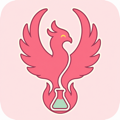
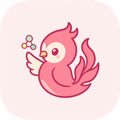
Track homepage visits separately from paper clicks

diff --git a/_includes/head/custom.html b/_includes/head/custom.html
@@ -2,24 +2,24 @@
 
 <!-- start custom head snippets -->
 
-<link rel="apple-touch-icon" sizes="57x57" href="{{ base_path }}/images/apple-touch-icon-57x57.png?v=20260727d">
-<link rel="apple-touch-icon" sizes="60x60" href="{{ base_path }}/images/apple-touch-icon-60x60.png?v=20260727d">
-<link rel="apple-touch-icon" sizes="72x72" href="{{ base_path }}/images/apple-touch-icon-72x72.png?v=20260727d">
-<link rel="apple-touch-icon" sizes="76x76" href="{{ base_path }}/images/apple-touch-icon-76x76.png?v=20260727d">
-<link rel="apple-touch-icon" sizes="114x114" href="{{ base_path }}/images/apple-touch-icon-114x114.png?v=20260727d">
-<link rel="apple-touch-icon" sizes="120x120" href="{{ base_path }}/images/apple-touch-icon-120x120.png?v=20260727d">
-<link rel="apple-touch-icon" sizes="144x144" href="{{ base_path }}/images/apple-touch-icon-144x144.png?v=20260727d">
-<link rel="apple-touch-icon" sizes="152x152" href="{{ base_path }}/images/apple-touch-icon-152x152.png?v=20260727d">
-<link rel="apple-touch-icon" sizes="180x180" href="{{ base_path }}/images/apple-touch-icon-180x180.png?v=20260727d">
-<link rel="icon" type="image/png" href="{{ base_path }}/images/favicon-32x32.png?v=20260727d" sizes="32x32">
-<link rel="icon" type="image/png" href="{{ base_path }}/images/android-chrome-192x192.png?v=20260727d" sizes="192x192">
-<link rel="icon" type="image/png" href="{{ base_path }}/images/favicon-96x96.png?v=20260727d" sizes="96x96">
-<link rel="icon" type="image/png" href="{{ base_path }}/images/favicon-16x16.png?v=20260727d" sizes="16x16">
-<link rel="manifest" href="{{ base_path }}/images/manifest.json?v=20260727d">
-<link rel="shortcut icon" href="/images/favicon.ico?v=20260727d">
+<link rel="apple-touch-icon" sizes="57x57" href="{{ base_path }}/images/apple-touch-icon-57x57.png?v=20260728b">
+<link rel="apple-touch-icon" sizes="60x60" href="{{ base_path }}/images/apple-touch-icon-60x60.png?v=20260728b">
+<link rel="apple-touch-icon" sizes="72x72" href="{{ base_path }}/images/apple-touch-icon-72x72.png?v=20260728b">
+<link rel="apple-touch-icon" sizes="76x76" href="{{ base_path }}/images/apple-touch-icon-76x76.png?v=20260728b">
+<link rel="apple-touch-icon" sizes="114x114" href="{{ base_path }}/images/apple-touch-icon-114x114.png?v=20260728b">
+<link rel="apple-touch-icon" sizes="120x120" href="{{ base_path }}/images/apple-touch-icon-120x120.png?v=20260728b">
+<link rel="apple-touch-icon" sizes="144x144" href="{{ base_path }}/images/apple-touch-icon-144x144.png?v=20260728b">
+<link rel="apple-touch-icon" sizes="152x152" href="{{ base_path }}/images/apple-touch-icon-152x152.png?v=20260728b">
+<link rel="apple-touch-icon" sizes="180x180" href="{{ base_path }}/images/apple-touch-icon-180x180.png?v=20260728b">
+<link rel="icon" type="image/png" href="{{ base_path }}/images/favicon-32x32.png?v=20260728b" sizes="32x32">
+<link rel="icon" type="image/png" href="{{ base_path }}/images/android-chrome-192x192.png?v=20260728b" sizes="192x192">
+<link rel="icon" type="image/png" href="{{ base_path }}/images/favicon-96x96.png?v=20260728b" sizes="96x96">
+<link rel="icon" type="image/png" href="{{ base_path }}/images/favicon-16x16.png?v=20260728b" sizes="16x16">
+<link rel="manifest" href="{{ base_path }}/images/manifest.json?v=20260728b">
+<link rel="shortcut icon" href="/images/favicon.ico?v=20260728b">
 <meta name="msapplication-TileColor" content="#efc4d3">
-<meta name="msapplication-TileImage" content="{{ base_path }}/images/mstile-144x144.png?v=20260727d">
-<meta name="msapplication-config" content="{{ base_path }}/images/browserconfig.xml?v=20260727d">
+<meta name="msapplication-TileImage" content="{{ base_path }}/images/mstile-144x144.png?v=20260728b">
+<meta name="msapplication-config" content="{{ base_path }}/images/browserconfig.xml?v=20260728b">
 <meta name="theme-color" content="#efc4d3">
 <script defer src="{{ '/assets/js/citation-copy.js' | relative_url }}"></script>
 {% if site.paper_analytics.supabase_url and site.paper_analytics.publishable_key %}
@@ -28,8 +28,10 @@
   <meta name="paper-analytics-function" content="{{ site.paper_analytics.function_name | default: 'track-paper-click' | escape }}">
   <script defer src="{{ '/assets/js/paper-clicks.js' | relative_url }}?v=20260727c"></script>
   {% if page.permalink == "/" %}
+    <meta name="page-analytics-function" content="{{ site.paper_analytics.visit_function_name | default: 'track-page-visit' | escape }}">
     <meta name="paper-analytics-summary-function" content="{{ site.paper_analytics.summary_function_name | default: 'paper-click-summary' | escape }}">
-    <script defer src="{{ '/assets/js/paper-insights.js' | relative_url }}?v=20260727e"></script>
+    <script defer src="{{ '/assets/js/page-visits.js' | relative_url }}?v=20260728a"></script>
+    <script defer src="{{ '/assets/js/paper-insights.js' | relative_url }}?v=20260728a"></script>
   {% endif %}
 {% endif %}
 {% if page.permalink == "/contact/" %}

diff --git a/supabase/functions/track-page-visit/index.ts b/supabase/functions/track-page-visit/index.ts
@@ -1,0 +1,119 @@
+import { createClient } from "npm:@supabase/supabase-js@2";
+
+const allowedOrigins = new Set([
+  "https://phenixace.github.io",
+  "http://localhost:4000",
+  "http://127.0.0.1:4000",
+]);
+
+function corsHeaders(origin: string | null) {
+  return {
+    "Access-Control-Allow-Origin": allowedOrigins.has(origin ?? "")
+      ? origin!
+      : "https://phenixace.github.io",
+    "Access-Control-Allow-Headers": "apikey, content-type",
+    "Access-Control-Allow-Methods": "POST, OPTIONS",
+    "Content-Type": "application/json",
+    Vary: "Origin",
+  };
+}
+
+function secretKey() {
+  const modern = Deno.env.get("SUPABASE_SECRET_KEYS");
+  if (modern) {
+    try {
+      return JSON.parse(modern).default as string;
+    } catch {
+      // Fall through to the legacy key.
+    }
+  }
+  return Deno.env.get("SUPABASE_SERVICE_ROLE_KEY") ?? "";
+}
+
+async function sha256(value: string) {
+  const bytes = new TextEncoder().encode(value);
+  const digest = await crypto.subtle.digest("SHA-256", bytes);
+  return Array.from(new Uint8Array(digest))
+    .map((byte) => byte.toString(16).padStart(2, "0"))
+    .join("");
+}
+
+Deno.serve(async (request) => {
+  const origin = request.headers.get("origin");
+  const headers = corsHeaders(origin);
+
+  if (request.method === "OPTIONS") {
+    return new Response("ok", { headers });
+  }
+  if (request.method !== "POST" || !allowedOrigins.has(origin ?? "")) {
+    return new Response(JSON.stringify({ error: "not_allowed" }), {
+      status: 403,
+      headers,
+    });
+  }
+
+  try {
+    const body = await request.json();
+    const sourcePath = String(body.sourcePath ?? "").trim();
+    if (sourcePath !== "/") throw new Error("invalid_payload");
+
+    const forwarded = request.headers.get("x-forwarded-for") ?? "";
+    const ip = forwarded.split(",")[0].trim();
+    const location = {
+      country: null as string | null,
+      region: null as string | null,
+    };
+    const ipinfoToken = Deno.env.get("IPINFO_TOKEN");
+
+    if (ip && ipinfoToken) {
+      const response = await fetch(
+        `https://ipinfo.io/${encodeURIComponent(ip)}/json?token=${encodeURIComponent(ipinfoToken)}`,
+        { signal: AbortSignal.timeout(2500) },
+      );
+      if (response.ok) {
+        const data = await response.json();
+        location.country = String(data.country ?? "").slice(0, 3) || null;
+        location.region = String(data.region ?? "").slice(0, 180) || null;
+      }
+    }
+
+    const salt = Deno.env.get("IP_HASH_SALT");
+    const ipHash = ip && salt ? await sha256(`${salt}:${ip}`) : null;
+    const supabaseUrl = Deno.env.get("SUPABASE_URL") ?? "";
+    const supabase = createClient(supabaseUrl, secretKey(), {
+      auth: { persistSession: false, autoRefreshToken: false },
+    });
+
+    if (ipHash) {
+      const oneHourAgo = new Date(Date.now() - 60 * 60 * 1000).toISOString();
+      const { count, error: countError } = await supabase
+        .from("page_visits")
+        .select("id", { count: "exact", head: true })
+        .eq("ip_hash", ipHash)
+        .gte("created_at", oneHourAgo);
+
+      if (countError) throw countError;
+      if ((count ?? 0) >= 60) {
+        return new Response(JSON.stringify({ ok: true }), {
+          status: 202,
+          headers,
+        });
+      }
+    }
+
+    const { error } = await supabase.from("page_visits").insert({
+      source_path: sourcePath,
+      country_code: location.country,
+      region: location.region,
+      ip_hash: ipHash,
+    });
+
+    if (error) throw error;
+    return new Response(JSON.stringify({ ok: true }), { headers });
+  } catch {
+    return new Response(JSON.stringify({ error: "invalid_request" }), {
+      status: 400,
+      headers,
+    });
+  }
+});

diff --git a/assets/js/paper-insights.js b/assets/js/paper-insights.js
@@ -15,7 +15,7 @@
   var topPapers = root.querySelector("[data-top-papers]");
   var clickOrigins = root.querySelector("[data-click-origins]");
   var readerMap = root.querySelector("[data-reader-map]");
-  var cacheKey = "jiatong-paper-insights-v2";
+  var cacheKey = "jiatong-paper-insights-v3";
   var hasRenderedData = false;
   var requestInFlight = false;
   var lastRequestedAt = 0;
@@ -108,16 +108,16 @@
       shape.classList.toggle("has-clicks", clicks > 0);
       shape.querySelector("em").textContent = String(clicks);
       shape.title =
-        continentNames[id] + " · " + formatCount(clicks, "click", "clicks");
+        continentNames[id] + " · " + formatCount(clicks, "visit", "visits");
     });
 
     readerMap.setAttribute(
       "aria-label",
       totalClicks
-        ? "Reader map showing " +
-            formatCount(totalClicks, "geolocated click", "geolocated clicks") +
+        ? "Homepage visitor map showing " +
+            formatCount(totalClicks, "geolocated visit", "geolocated visits") +
             " across six continents"
-        : "No geolocated clicks yet"
+        : "No geolocated homepage visits yet"
     );
 
     clickOrigins.replaceChildren();
@@ -125,7 +125,7 @@
       var empty = document.createElement("li");
       empty.className = "insight-list__status";
       empty.textContent = locationEnabled
-        ? "Location tracking is ready; new geolocated clicks will light up the map."
+        ? "Location tracking is ready; new homepage visits will light up the map."
         : "Location enrichment is not enabled yet.";
       clickOrigins.appendChild(empty);
       return;
@@ -144,7 +144,7 @@
       badge.className = "location-list__badge";
       badge.textContent = location.countryCode;
       label.textContent = distinctRegion ? region + " · " + country : country;
-      count.textContent = formatCount(location.clicks, "click", "clicks");
+      count.textContent = formatCount(location.clicks, "visit", "visits");
       item.append(badge, label, count);
       clickOrigins.appendChild(item);
     });
@@ -237,6 +237,12 @@
   loadInsights(true);
 
   window.addEventListener("paperanalytics:updated", function () {
+    window.setTimeout(function () {
+      loadInsights(true);
+    }, 300);
+  });
+
+  window.addEventListener("siteanalytics:updated", function () {
     window.setTimeout(function () {
       loadInsights(true);
     }, 300);

diff --git a/supabase/functions/paper-click-summary/index.ts b/supabase/functions/paper-click-summary/index.ts
@@ -77,8 +77,8 @@ Deno.serve(async (request) => {
         .order("click_count", { ascending: false })
         .limit(5),
       supabase
-        .from("paper_click_locations")
-        .select("country_code,region,click_count,hashed_visitor_count")
+        .from("page_visit_locations")
+        .select("country_code,region,visit_count,hashed_visitor_count")
         .not("country_code", "is", null)
         .limit(1000),
     ]);
@@ -108,7 +108,7 @@ Deno.serve(async (request) => {
       const code = String(row.country_code ?? "").trim().toUpperCase();
       if (!/^[A-Z]{2}$/.test(code)) continue;
       const region = String(row.region ?? "").trim().slice(0, 180) || null;
-      const clicks = numberValue(row.click_count);
+      const clicks = numberValue(row.visit_count);
       const visitors = numberValue(row.hashed_visitor_count);
       const locationKey = `${code}:${region ?? ""}`;
       const location = locationTotals.get(locationKey) ?? {
@@ -152,6 +152,7 @@ Deno.serve(async (request) => {
         papers,
         locations,
         continents,
+        originMetric: "homepage_visits",
         locationEnabled: Boolean(Deno.env.get("IPINFO_TOKEN")),
       }),
       { headers },

diff --git a/assets/js/page-visits.js b/assets/js/page-visits.js
@@ -1,0 +1,39 @@
+(function () {
+  var urlMeta = document.querySelector("meta[name='paper-analytics-url']");
+  var keyMeta = document.querySelector("meta[name='paper-analytics-key']");
+  var functionMeta = document.querySelector(
+    "meta[name='page-analytics-function']"
+  );
+
+  if (
+    !urlMeta ||
+    !keyMeta ||
+    !functionMeta ||
+    window.location.pathname !== "/"
+  ) {
+    return;
+  }
+
+  var endpoint =
+    urlMeta.content.replace(/\/$/, "") +
+    "/functions/v1/" +
+    encodeURIComponent(functionMeta.content);
+
+  fetch(endpoint, {
+    method: "POST",
+    keepalive: true,
+    headers: {
+      apikey: keyMeta.content,
+      "Content-Type": "application/json",
+    },
+    body: JSON.stringify({ sourcePath: "/" }),
+  })
+    .then(function (response) {
+      if (response.ok) {
+        window.dispatchEvent(new Event("siteanalytics:updated"));
+      }
+    })
+    .catch(function () {
+      // Analytics must never interrupt the homepage.
+    });
+})();

diff --git a/_includes/footer/custom.html b/_includes/footer/custom.html
@@ -1,5 +1,5 @@
 <!-- start custom footer snippets -->
 <a href="/sitemap/">Sitemap</a>
 <span aria-hidden="true"> · </span>
-<span>Paper-link analytics, when enabled, stores coarse location—not raw IP addresses.</span>
+<span>Homepage and paper-link analytics store coarse country/region—not raw IP addresses.</span>
 <!-- end custom footer snippets -->

diff --git a/supabase/README.md b/supabase/README.md
@@ -1,33 +1,37 @@
 # Supabase integration
 
-The homepage contains three optional Edge Functions:
+The homepage contains four optional Edge Functions:
 
 - `track-paper-click` records paper-link clicks and coarse IP-derived location.
+- `track-page-visit` records homepage visits and coarse country/region location.
 - `paper-click-summary` exposes read-only country and continent aggregates for
-  the homepage map and the five most-clicked papers.
+  homepage visits, plus the five most-clicked papers.
 - `reveal-contact` validates Cloudflare Turnstile before returning the protected
   email address.
 
-Neither integration runs until a Supabase project is connected and the public
-project values are added to `_config.yml`.
+These integrations do not run until a Supabase project is connected and the
+public project values are added to `_config.yml`.
 
 ## Privacy and security
 
 - Raw IP addresses are never inserted into the database.
 - Optional repeat-visitor analysis uses a salted SHA-256 hash.
 - Country, region, and city are resolved server-side through IPinfo.
-- The public summary returns country/region-level aggregates only, never city,
-  visitor hashes, or individual event records.
-- A hashed visitor is capped at 120 stored clicks per rolling hour.
-- The database table has RLS enabled and grants no browser role direct access.
+- Homepage visits and paper clicks are stored separately.
+- The public summary returns country/region-level visit aggregates only, never
+  city, visitor hashes, or individual event records.
+- A hashed visitor is capped at 120 stored clicks and 60 homepage visits per
+  rolling hour.
+- Both analytics tables have RLS enabled and grant no browser role direct
+  access.
 - Supabase secret keys, the Turnstile secret, the IPinfo token, the hash salt,
   and the contact email must only exist as Edge Function secrets.
 
 ## Connect a project
 
 1. Link the Supabase CLI to the intended project.
-2. Apply `supabase/migrations/20260727000000_create_paper_clicks.sql`.
-3. Deploy all three functions with JWT verification disabled, as configured in
+2. Apply all files under `supabase/migrations/` with `supabase db push`.
+3. Deploy all four functions with JWT verification disabled, as configured in
    `supabase/config.toml`.
 4. Copy `supabase/functions/.env.example` to an ignored local env file and set
    the required Edge Function secrets:
@@ -51,9 +55,14 @@ The migration creates two server-only views:
 - `paper_click_locations`: total clicks and hashed visitor estimates by coarse
   country, region, and city.
 
-When `IP_HASH_SALT` is blank, clicks are still counted but the hashed visitor
-estimate remains null. When `IPINFO_TOKEN` is blank, clicks are still counted
-without location fields.
+The page-visit migration creates:
+
+- `page_visit_summary`: total homepage visits and hashed visitor estimates.
+- `page_visit_locations`: homepage visits grouped by country and region.
+
+When `IP_HASH_SALT` is blank, visits and clicks are still counted but the hashed
+visitor estimate remains null. When `IPINFO_TOKEN` is blank, events are still
+counted without location fields.
 
 The publishable key and Turnstile site key are browser-safe. A Supabase secret,
 legacy service-role key, Turnstile secret, IPinfo token, hash salt, or contact

diff --git a/_pages/about.md b/_pages/about.md
@@ -529,10 +529,10 @@ redirect_from:
     <article class="insight-card insight-card--map" aria-labelledby="reader-map-title">
       <div class="insight-card__heading">
         <span class="insight-card__icon" aria-hidden="true"><i class="fas fa-map-marked-alt"></i></span>
-        <span class="live-pill"><i aria-hidden="true"></i> Live map</span>
+        <span class="live-pill"><i aria-hidden="true"></i> Live homepage visits</span>
       </div>
-      <p class="section-kicker">Around the world</p>
-      <h2 id="reader-map-title">Where paper readers arrive from</h2>
+      <p class="section-kicker">Homepage audience</p>
+      <h2 id="reader-map-title">Where visitors arrive from</h2>
       <div class="reader-map" data-reader-map role="img" aria-label="No geolocated clicks yet">
         <span class="reader-map__continent reader-map__continent--na" data-continent="NA"><b>North America</b><em>0</em></span>
         <span class="reader-map__continent reader-map__continent--sa" data-continent="SA"><b>South America</b><em>0</em></span>
@@ -544,7 +544,7 @@ redirect_from:
       <ul class="location-list" data-click-origins aria-live="polite">
         <li class="insight-list__status">Waiting for the first geolocated click…</li>
       </ul>
-      <p class="insight-card__note"><i class="fas fa-shield-alt" aria-hidden="true"></i> Country/region-level aggregates from paper-link clicks only. Raw IP addresses are never displayed.</p>
+      <p class="insight-card__note"><i class="fas fa-shield-alt" aria-hidden="true"></i> Country/region-level aggregates from homepage visits. Paper clicks are counted separately; raw IP addresses are never displayed.</p>
     </article>
   </section>
 </div>
